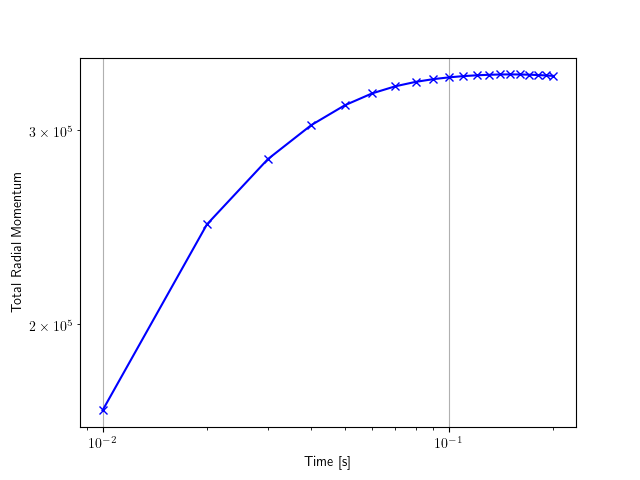
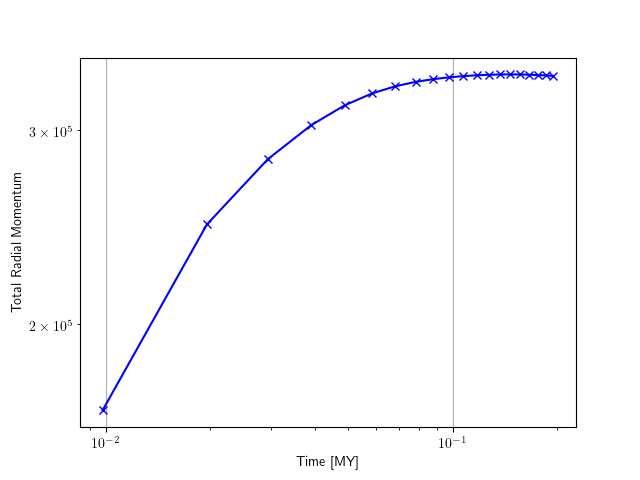
new graphs and correction of time unit

Changed region(s): [[0.4688, 0.9375, 0.5625, 1.0], [0.125, 0.9062, 0.1875, 0.9375], [0.6875, 0.9062, 0.7188, 0.9375]]

diff --git a/spherical1d/polytrope_1d_spherical/check.py b/spherical1d/polytrope_1d_spherical/check.py
@@ -50,6 +50,7 @@ Uthermal_ref = np.array(data["PartType0"]["InternalEnergy"], dtype = FloatType)
 
 Accel_ref = np.array(data["PartType0"]["Acceleration"], dtype = FloatType)[:,0]
 GradPress_ref = np.array(data["PartType0"]["PressureGradient"], dtype = FloatType)[:,0]
+UnitTime = 0.977 #in MY
 
 
 time = []
@@ -58,9 +59,14 @@ peak_Rad = []
 time_step = 0.01  # Remplace par ton vrai pas de temps
 RadialMomentum = np.empty((0,i_snap))
 totRadMom = np.zeros(20)
+totUtherm = np.zeros(20)
+totUkin = np.zeros(20)
+totUtot = np.zeros(20)
 Uthermal_all = np.empty((0,i_snap))
 Ukinetic_all = np.empty((0,i_snap))
 Utot_all = Uthermal_all + Ukinetic_all
+Ufond = Uthermal_ref[Uthermal_ref.size-1]
+print(Ufond)
 
 
 
@@ -95,6 +101,9 @@ while True:
     Ukinetic = 0.5*Velocity**2*Mass
 
     totRadMom[i_snap-1] = RadMom.sum()
+    totUtherm[i_snap-1] = Uthermal.sum() - Ufond
+    totUkin[i_snap-1] = Ukinetic.sum()
+    totUtot[i_snap-1] = Uthermal.sum() - Ufond + Ukinetic.sum()
 
     
     
@@ -110,7 +119,7 @@ while True:
     RadPos = Pos[peakRad_index]
 
     # time of the snap
-    time.append(i_snap * time_step)
+    time.append(i_snap * time_step * UnitTime)
     peak_positions.append(peak_position)
     peak_Rad.append(RadPos)
 
@@ -209,7 +218,7 @@ while True:
 # front wave evolution
 fig, ax = plt.subplots()
 ax.plot(time, peak_positions, marker='x', linestyle='-', color='b')
-ax.set_xlabel("Time [s]")
+ax.set_xlabel("Time [MY]")
 ax.set_ylabel("front position [pc]")
 ax.grid(True)
 fig.savefig(simulation_directory+"/plots/front")
@@ -229,7 +238,7 @@ fig.savefig(simulation_directory+"/plots/RadialMomentum")
 # Peak radial momentum evolution
 fig, ax = plt.subplots()
 ax.plot(time, peak_Rad, marker='x', linestyle='-', color='b')
-ax.set_xlabel("Time [s]")
+ax.set_xlabel("Time [MY]")
 ax.set_ylabel("Radial Momentum peak position [pc]")
 #ax.set_title("Case with cooling")
 ax.grid(True)
@@ -274,12 +283,42 @@ fig.savefig(simulation_directory+"/plots/Tot_Energy")
 #  Total radial momentum
 fig, ax = plt.subplots()
 ax.plot(time, totRadMom, marker='x', linestyle='-', color='b')
-ax.set_xlabel("Time [s]")
+ax.set_xlabel("Time [MY]")
 ax.set_ylabel("Total Radial Momentum")
 ax.set_xscale("log")
 ax.set_yscale("log")
 ax.grid(True)
 fig.savefig(simulation_directory+"/plots/TotalRad")
+
+#  Total Thermal energy
+fig, ax = plt.subplots()
+ax.plot(time, totUtherm, marker='x', linestyle='-', color='b')
+ax.set_xlabel("Time [MY]")
+ax.set_ylabel("Total Thermal Energy")
+ax.set_xscale("log")
+ax.set_yscale("log")
+ax.grid(True)
+fig.savefig(simulation_directory+"/plots/TotalUth")
+
+#  Total Kinetic Energy
+fig, ax = plt.subplots()
+ax.plot(time, totUkin, marker='x', linestyle='-', color='b')
+ax.set_xlabel("Time [MY]")
+ax.set_ylabel("Total Kinetic Energy")
+ax.set_xscale("log")
+ax.set_yscale("log")
+ax.grid(True)
+fig.savefig(simulation_directory+"/plots/TotalUkin")
+
+#  Total Energy
+fig, ax = plt.subplots()
+ax.plot(time, totUtot, marker='x', linestyle='-', color='b')
+ax.set_xlabel("Time [MY]")
+ax.set_ylabel("Total Energy")
+ax.set_xscale("log")
+ax.set_yscale("log")
+ax.grid(True)
+fig.savefig(simulation_directory+"/plots/TotalU")
 
 
 
